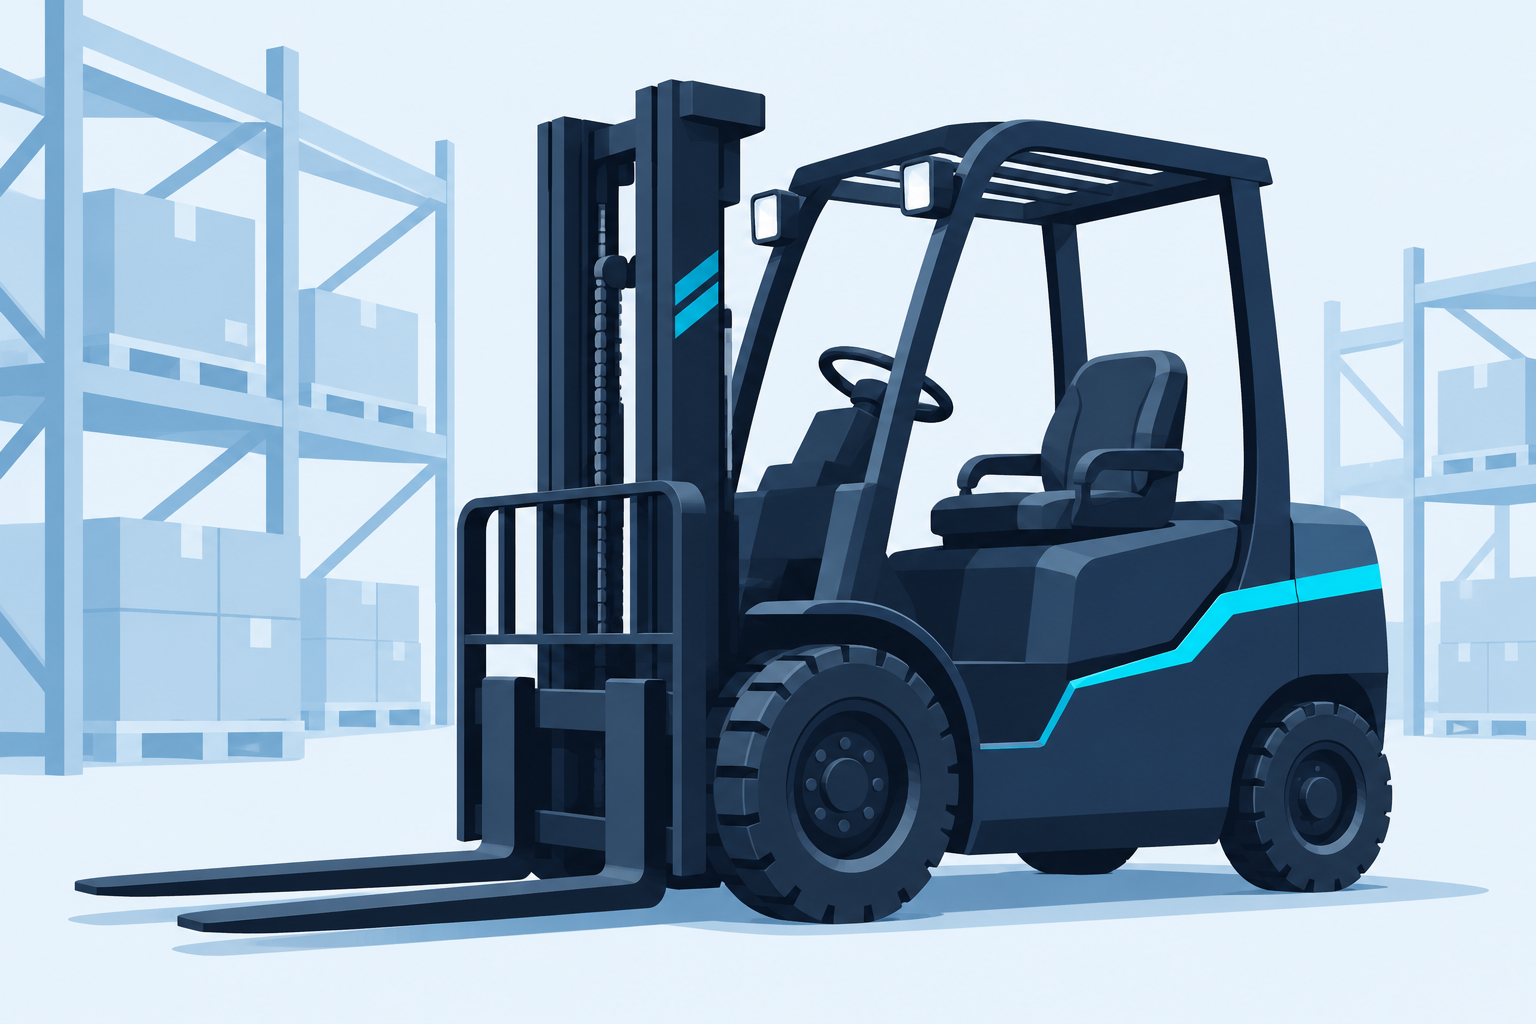
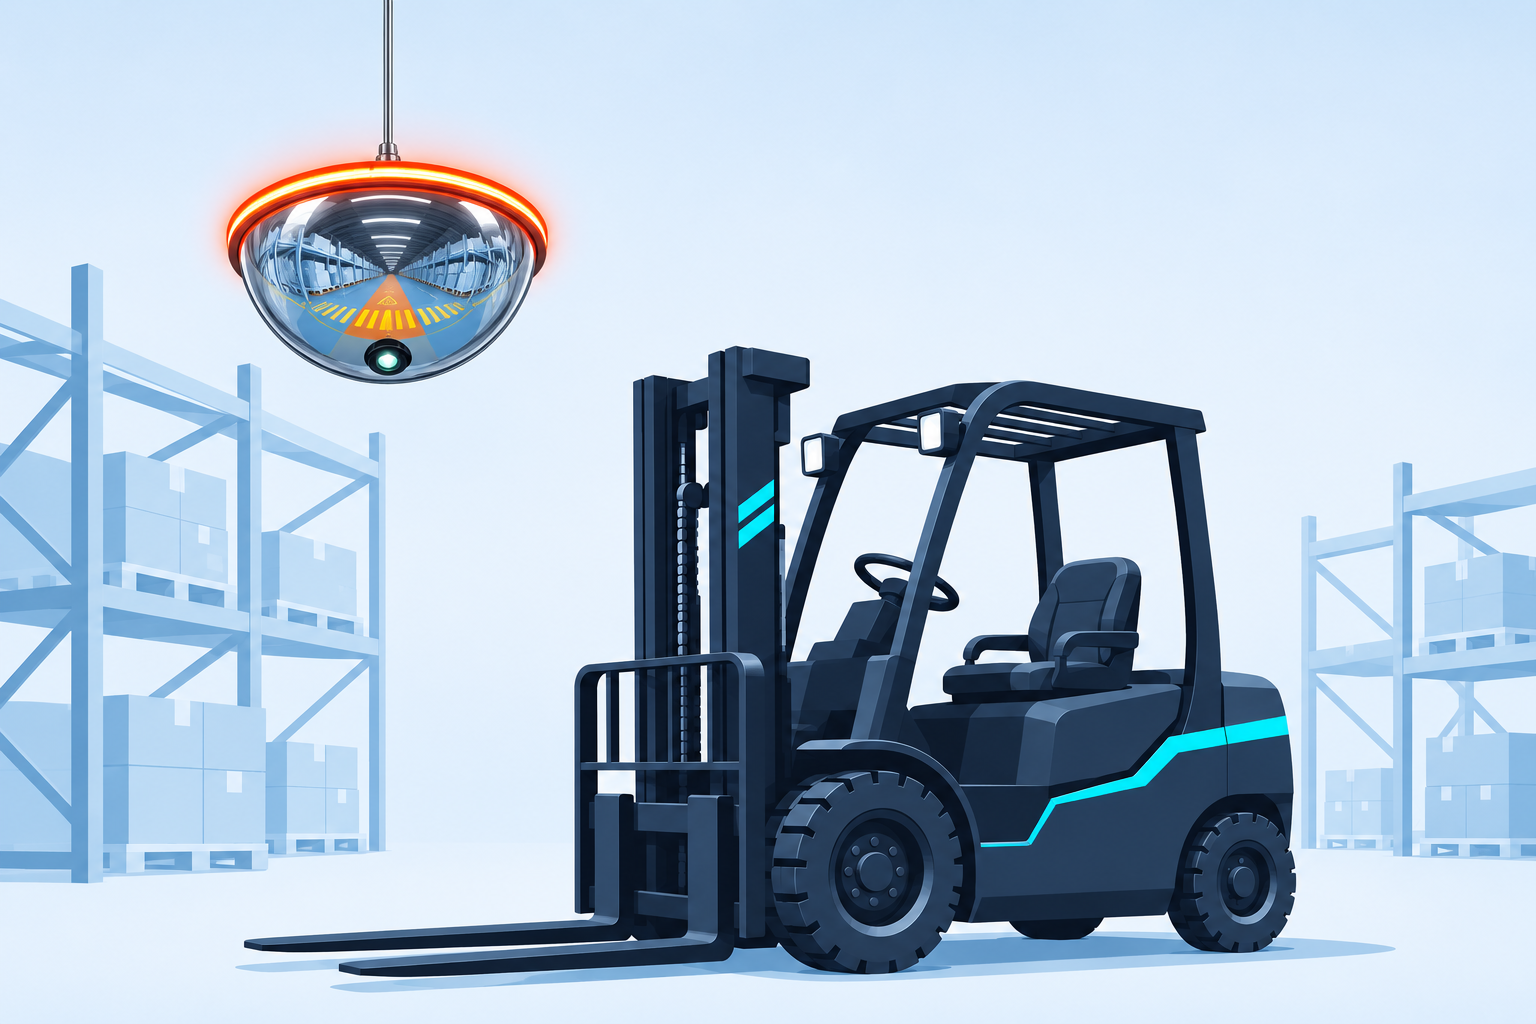
Vrátit do úvodu ilustraci skladu se svítícím zrcadlem

diff --git a/index.html b/index.html
@@ -96,7 +96,11 @@
 .brand-caption{font-size:clamp(17px,4vw,30px);letter-spacing:-.7px}.splash-name{font-size:clamp(22px,6vw,29px);letter-spacing:2px}
 .grid{grid-template-columns:repeat(2,minmax(0,1fr));max-width:720px;margin:auto}.tile{align-items:center;justify-content:center;text-align:center;min-height:145px}.tile .ico{justify-content:center;margin-bottom:8px}.tile .ico svg{width:56px;height:56px}.tile strong{font-size:17px}
 .header-gxas{display:block;width:100px;height:100px;object-fit:contain}.bar{min-height:100px}@media(max-width:740px){.header-gxas{width:86px;height:86px}.bar{min-height:86px}}
+.hero.menu-hero{display:grid;grid-template-columns:minmax(0,1fr) minmax(160px,34%);align-items:center;padding:0;overflow:hidden;background:#e6f2fd}
+.menu-hero div{padding:clamp(18px,3vw,30px)}
 .menu-hero p{margin:0}
+.menu-hero img{display:block;width:100%;height:auto;mask-image:linear-gradient(to right,transparent,#000 10%)}
+@media(max-width:520px){.hero.menu-hero{grid-template-columns:1fr}.menu-hero img{width:min(100%,280px);justify-self:center;mask-image:none}}
 </style>
 </head>
 <body>
@@ -138,8 +142,9 @@ function editor(){if(currentUser?.role!=='admin')return home();app.innerHTML=`<b
 function mainMenu(){
   app.innerHTML=`
     <section class="hero menu-hero">
-      <h1>Technika a galerie</h1>
-      <p>V sekci Technik najdeš montážní postupy a poznámky z terénu. V galerii si můžeš prohlédnout fotky a videa z realizací.</p>
+      <div><h1>Technika a galerie</h1>
+      <p>V sekci Technik najdeš montážní postupy a poznámky z terénu. V galerii si můžeš prohlédnout fotky a videa z realizací.</p></div>
+      <img src="sklad-vzv.png?v=zrcadlo" width="1536" height="1024" alt="Vysokozdvižný vozík pod skladovým zrcadlem s rozsvíceným LED prstencem">
     </section>
     <div class="grid">
       <a class="tile" href="#technika">
